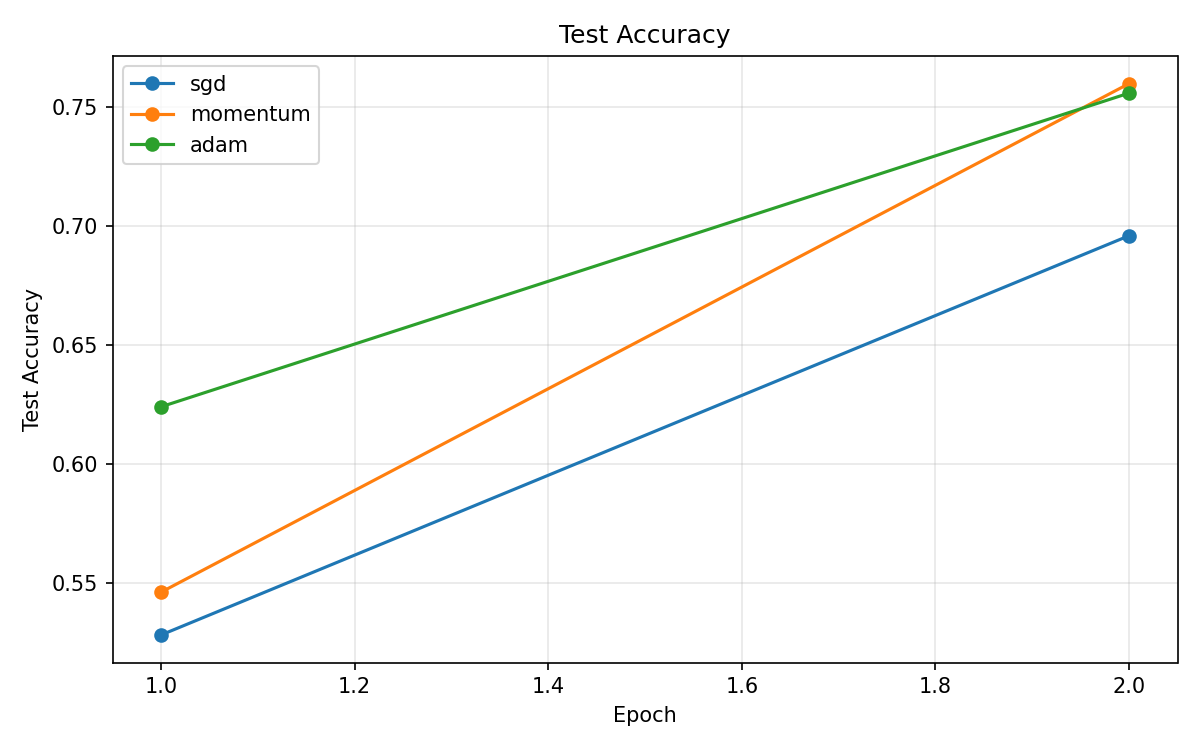
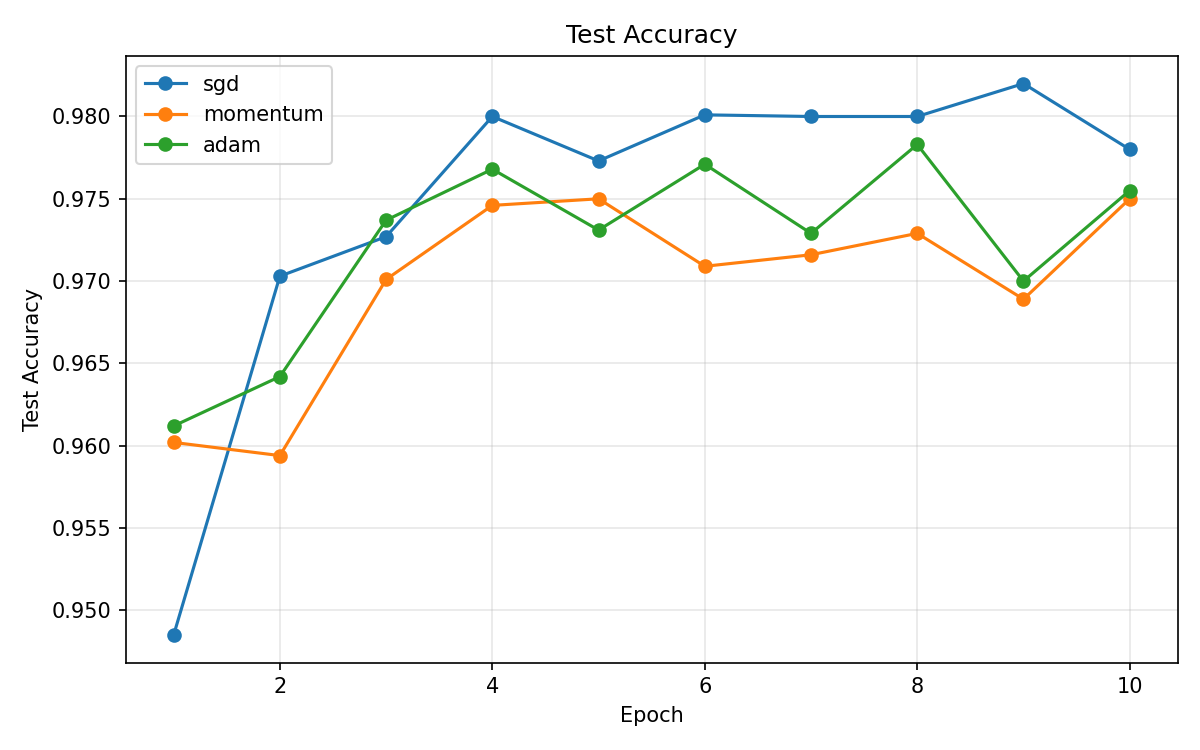
result of 10 epochs

diff --git a/README.md b/README.md
@@ -1,3 +1,7 @@
+## Motivation
+
+Optimization algorithms are fundamental to deep learning training.
+This project aims to better understand how different optimizers affect convergence behavior and training stability by implementing them from scratch.
 # Optimization from Scratch
 
 This project compares three optimizers implemented from scratch on MNIST:
@@ -30,5 +34,9 @@ python train.py --epochs 10 --train-limit 60000 --test-limit 10000
 python plot.py
 ```
 
-Adam converges faster in the early stage, while SGD is more sensitive to the learning rate.
-Momentum stabilizes the update direction and usually converges faster than vanilla SGD.
+For SGD and Momentum, I use the same learning rate to isolate the effect of the momentum term.
+For Adam, I keep the standard beta values beta1=0.9 and beta2=0.999, because these are part of the Adam algorithm's default design.
+
+In this experiment, SGD with a well-chosen learning rate performs very competitively.
+Adam reduces training loss quickly, but does not always produce the best test accuracy.
+Momentum can improve convergence over vanilla SGD, but its performance depends strongly on the learning rate.
